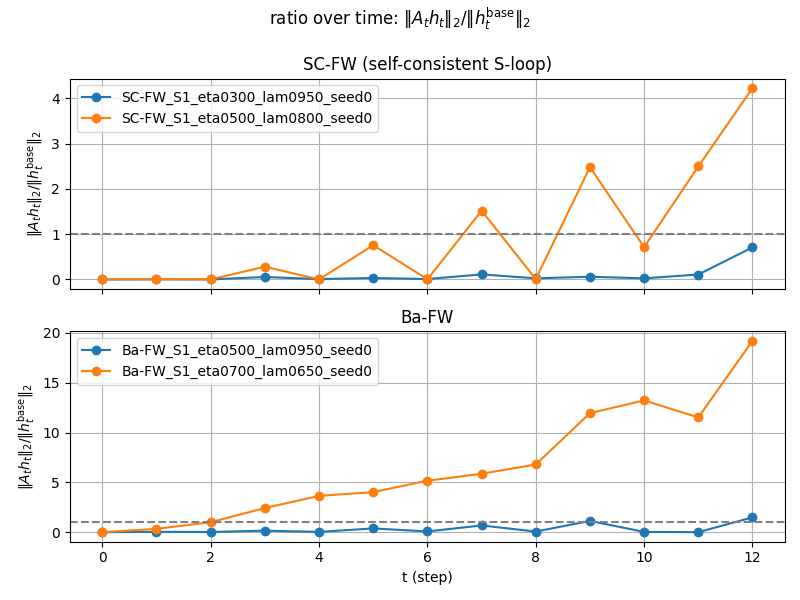
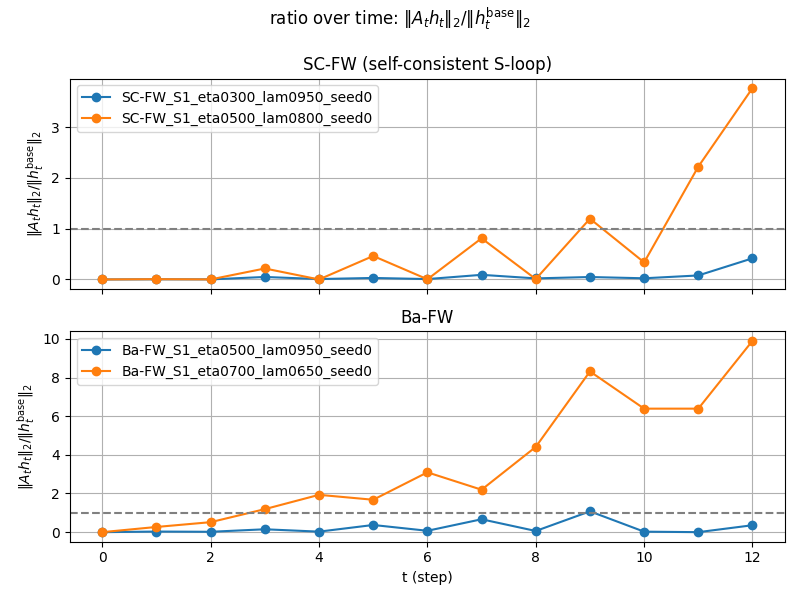
figure plus 1211

diff --git a/KV_CLASS/kv_class_Anorm/figure/h_heatmap_bafw_two.py b/KV_CLASS/kv_class_Anorm/figure/h_heatmap_bafw_two.py
@@ -1,14 +1,15 @@
 #!/usr/bin/env python3
 # -*- coding: utf-8 -*-
 """
-Ba-FW 各条件の cosine ヒートマップ図（1ファイル1枚）
-------------------------------------------------------
-../results_A_kv/ 以下の H_kv_fw_*.csv を読み込み，
-Ba-FW (各条件) の cosine 類似度ヒートマップを
-それぞれ別々の PNG として出力する。
+Ba-FW / SC-FW 各条件の cosine ヒートマップ図（1ファイル1枚）
+-------------------------------------------------------------
+../results_A_kv/ 以下の H_kv_*.csv を読み込み，
+Ba-FW (core=fw) および SC-FW (core=tanh) の
+cosine 類似度ヒートマップをそれぞれ別々の PNG として出力する。
 
-出力:
-  plots/sloop_all/kv_dyn_cos_bafw_S{S}_eta{eta}_lam{lam}_seed{seed}.png
+出力（例）:
+  plots/sloop_all/kv_dyn_cos_bafw_S1_eta0300_lam0950_seed0.png
+  plots/sloop_all/kv_dyn_cos_scfw_S1_eta0500_lam0950_seed0.png
 """
 
 import os
@@ -30,7 +31,7 @@ from matplotlib.colors import LinearSegmentedColormap
 def load_h_csv(path):
     df = pd.read_csv(path)
 
-    # ★ h[...] だけを特徴ベクトルとして使う
+    # h[...] だけを特徴ベクトルとして使う
     h_cols = [c for c in df.columns if c.startswith("h[")]
     H = df[h_cols].values.astype(float)
 
@@ -67,12 +68,18 @@ def parse_filename(fname):
 
 
 # --------------------------------------------------
-# core 名を変換
+# core 名を変換（タイトル表示用・ファイル名用）
 # --------------------------------------------------
 CORE_NAME = {
     "fw": "Ba-FW",
     "tanh": "SC-FW",
     "rnn": "RNN-LN",
+}
+
+CORE_PREFIX = {
+    "fw": "bafw",
+    "tanh": "scfw",
+    "rnn": "rnnln",
 }
 
 
@@ -98,11 +105,12 @@ def draw_single_heatmap(ax, M, kinds, class_ids):
         if kinds[t] == "value":
             class_to_values[class_ids[t]].append(t)
 
-    # 推奨APIで cmap を取得（DeprecationWarning 回避）
-    color_map = mpl.colormaps["tab20"]
+    # ★ 修正ポイント：tab20 の色リストから色を取る
+    cmap = mpl.colormaps["tab20"]
+    cmap_colors = cmap.colors  # RGBA のリスト
 
     for idx_c, (cid, steps) in enumerate(class_to_values.items()):
-        color = color_map(idx_c)
+        color = cmap_colors[idx_c % len(cmap_colors)]
         for i in steps:
             for j in steps:
                 if i == j:
@@ -120,7 +128,8 @@ def draw_single_heatmap(ax, M, kinds, class_ids):
     if "query" in kinds:
         q_step = kinds.index("query")
         bind_idx = class_ids[q_step]
-        key_step = bind_idx * 2  # Bind 時刻（key）が 2 * class_id という前提
+        # Bind 時刻（key）が 2 * class_id という前提
+        key_step = bind_idx * 2
 
         for (x, y) in [(key_step, q_step), (q_step, key_step)]:
             ax.add_patch(
@@ -134,9 +143,9 @@ def draw_single_heatmap(ax, M, kinds, class_ids):
 
 
 # --------------------------------------------------
-# Ba-FW 各条件の cosine heatmap を 1枚ずつ描画
+# 指定された CSV 群の cosine heatmap を 1枚ずつ描画
 # --------------------------------------------------
-def plot_bafw_each(csv_list, out_dir, out_prefix="kv_dyn_cos_bafw"):
+def plot_each_core(csv_list, out_dir, out_prefix="kv_dyn_cos"):
     # cos 用カラーマップ（元と同じ）
     cmap = LinearSegmentedColormap.from_list(
         "custom_cmap",
@@ -153,6 +162,7 @@ def plot_bafw_each(csv_list, out_dir, out_prefix="kv_dyn_cos_bafw"):
         C = cosine_matrix(H)
         core, S, eta, lam, seed = parse_filename(csv_path)
         core_name = CORE_NAME.get(core, core)
+        core_prefix = CORE_PREFIX.get(core, core)
 
         fig, ax = plt.subplots(1, 1, figsize=(5, 4))
 
@@ -174,7 +184,7 @@ def plot_bafw_each(csv_list, out_dir, out_prefix="kv_dyn_cos_bafw"):
 
         plt.tight_layout()
 
-        fname = f"{out_prefix}_S{S}_eta{eta}_lam{lam}_seed{seed}.png"
+        fname = f"{out_prefix}_{core_prefix}_S{S}_eta{eta}_lam{lam}_seed{seed}.png"
         out_path = os.path.join(out_dir, fname)
         plt.savefig(out_path, dpi=200)
         plt.close()
@@ -189,24 +199,32 @@ def main():
     ap.add_argument("--dir", type=str, default="../results_A_kv",
                     help="H_kv_*.csv が置いてあるディレクトリ")
     ap.add_argument("--out_prefix", type=str,
-                    default="kv_dyn_cos_bafw",
+                    default="kv_dyn_cos",
                     help="出力ファイル名のプレフィックス")
     args = ap.parse_args()
 
     save_dir = "plots/sloop_all"
     os.makedirs(save_dir, exist_ok=True)
 
-    # Ba-FW (core=fw) のみ取得
-    csv_list = sorted(glob.glob(os.path.join(args.dir, "H_kv_fw_*.csv")))
-    if len(csv_list) == 0:
-        print("[ERROR] No H_kv_fw_*.csv found.")
-        return
+    # Ba-FW (core=fw)
+    csv_fw = sorted(glob.glob(os.path.join(args.dir, "H_kv_fw_*.csv")))
+    if len(csv_fw) == 0:
+        print("[WARN] No H_kv_fw_*.csv found.")
+    else:
+        print(f"[INFO] Found {len(csv_fw)} Ba-FW files")
+        for c in csv_fw:
+            print(" -", c)
+        plot_each_core(csv_fw, out_dir=save_dir, out_prefix=args.out_prefix)
 
-    print(f"[INFO] Found {len(csv_list)} Ba-FW files")
-    for c in csv_list:
-        print(" -", c)
-
-    plot_bafw_each(csv_list, out_dir=save_dir, out_prefix=args.out_prefix)
+    # SC-FW (core=tanh)
+    csv_scfw = sorted(glob.glob(os.path.join(args.dir, "H_kv_tanh_*.csv")))
+    if len(csv_scfw) == 0:
+        print("[WARN] No H_kv_tanh_*.csv found.")
+    else:
+        print(f"[INFO] Found {len(csv_scfw)} SC-FW files")
+        for c in csv_scfw:
+            print(" -", c)
+        plot_each_core(csv_scfw, out_dir=save_dir, out_prefix=args.out_prefix)
 
 
 if __name__ == "__main__":

diff --git a/KV_CLASS/kv_class_Anorm/figure/sloop_ratio_all.py b/KV_CLASS/kv_class_Anorm/figure/sloop_ratio_all.py
@@ -5,8 +5,9 @@ S-loop ratio over time (SC-FW vs Ba-FW)
 ---------------------------------------
 - ../results_A_kv/ 以下の SloopVec_kv_*.csv と Amat_kv_*.csv を読む
 - 各モデルについて、各時刻 t で
-      ratio(t) = ||A_t h_t^{(final s)}||_2 / ||h_t^{base}||_2
-  を計算（S=1 なら s=1 の値）
+      ratio(t) = ||A_t h_t^{(last input)}||_2 / ||h_t^{base}||_2
+  を計算
+  （S=1 なら、更新に実際に使われた h^{(0)} に対する A_t h^{(0)} を用いる）
 - SC-FW(core=fw) と Ba-FW(core=tanh) を 2 行サブプロットで別々に描画
 
 出力:
@@ -85,7 +86,9 @@ def load_A(csv_path):
 
 
 # --------------------------------------------------
-# 1 モデル分の ratio(t) = ||A_t h_t^{final}|| / ||h_t^base|| を計算
+# 1 モデル分の ratio(t) = ||A_t h_t^{last input}|| / ||h_t^base|| を計算
+#   - base: s = -1 の行
+#   - S-loop: s >= 0 の行から「最後の更新に入った h」を選ぶ
 # --------------------------------------------------
 def compute_ratio_curve(sloop_csv, amat_csv):
     df = pd.read_csv(sloop_csv)
@@ -100,20 +103,37 @@ def compute_ratio_curve(sloop_csv, amat_csv):
         t = int(t)
 
         # base（s = -1）
-        base_vec = g[g["s"] == -1].iloc[0]
+        base_rows = g[g["s"] == -1]
+        if len(base_rows) == 0:
+            # 想定外フォーマットならスキップ
+            continue
+        base_vec = base_rows.iloc[0]
         base_h = base_vec.filter(regex=r"h\[").values.astype(float)
         norm_base = np.linalg.norm(base_h) + 1e-8  # ゼロ除算防止
 
         # A_t
+        if t >= len(A_list):
+            # 安全のため範囲外ならスキップ
+            continue
         A = A_list[t]
 
-        # S-loop の最後の s を選ぶ（s 昇順で最後）
+        # S-loop 部分（s >= 0）だけ取り出して s でソート
         loop_rows = g[g["s"] >= 0].sort_values("s")
-        last_row = loop_rows.iloc[-1]
-        h_last = last_row.filter(regex=r"h\[").values.astype(float)
 
-        Ah_last = A @ h_last
-        ratio = np.linalg.norm(Ah_last) / norm_base
+        if len(loop_rows) == 0:
+            # S=0 など、S-loop なしの場合はスキップ
+            continue
+        elif len(loop_rows) == 1:
+            # 1 個しかなければそれを「更新に使った h」とみなす
+            target_row = loop_rows.iloc[0]
+        else:
+            # 最後の 1 個前を「最後の更新で A に入った h」とみなす
+            target_row = loop_rows.iloc[-2]
+
+        h_target = target_row.filter(regex=r"h\[").values.astype(float)
+
+        Ah = A @ h_target
+        ratio = np.linalg.norm(Ah) / norm_base
 
         t_list.append(t)
         ratio_list.append(ratio)
@@ -180,16 +200,22 @@ def main():
         # 凡例用の core 名を SC-FW / Ba-FW に変換
         if core == "fw":
             core_label = "SC-FW"
-            curves_sc.append((t_arr, ratio_arr,
-                              f"{core_label}_S{S}_eta{eta}_lam{lam}_seed{seed}"))
+            curves_sc.append(
+                (t_arr, ratio_arr,
+                 f"{core_label}_S{S}_eta{eta}_lam{lam}_seed{seed}")
+            )
         elif core == "tanh":
             core_label = "Ba-FW"
-            curves_ba.append((t_arr, ratio_arr,
-                              f"{core_label}_S{S}_eta{eta}_lam{lam}_seed{seed}"))
+            curves_ba.append(
+                (t_arr, ratio_arr,
+                 f"{core_label}_S{S}_eta{eta}_lam{lam}_seed{seed}")
+            )
         else:
             core_label = core.upper()
-            curves_sc.append((t_arr, ratio_arr,
-                              f"{core_label}_S{S}_eta{eta}_lam{lam}_seed{seed}"))
+            curves_sc.append(
+                (t_arr, ratio_arr,
+                 f"{core_label}_S{S}_eta{eta}_lam{lam}_seed{seed}")
+            )
 
     if len(curves_sc) == 0 and len(curves_ba) == 0:
         print("[ERROR] No valid curves to plot.")
